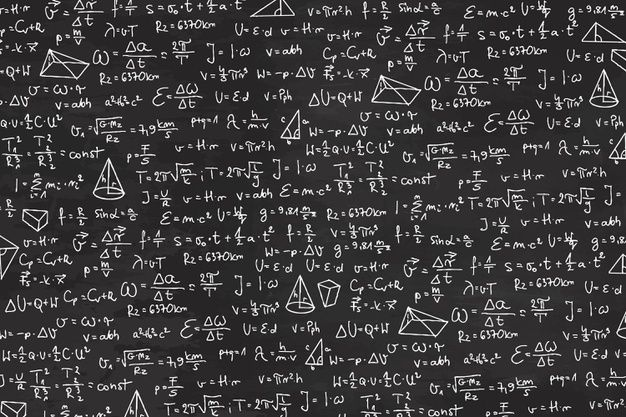
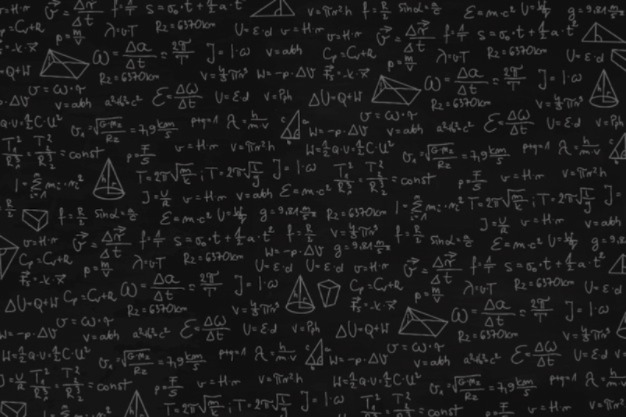
feat: alterações de estilização

diff --git a/src/calculosFisica/css/style-fisica.css b/src/calculosFisica/css/style-fisica.css
@@ -1,6 +1,6 @@
 /* src/css/style.css */
 :root {
-    --color-bg: #07073e;
+    --color-bg: #1D246B;
     --color-header: #39306c;
     --color-text: #EDEAEA;
     --color-primary: #6272A4;
@@ -84,7 +84,7 @@ body {
     flex-direction: column;
     align-items: center;
     padding: 2rem 0;
-    margin: 50px auto;
+    margin: 70px auto;
 }
 
 .main-content .title {
@@ -104,7 +104,7 @@ body {
     text-decoration: none;
     background: var(--color-text);
     color: var(--color-bg);
-    padding: 1rem;
+    padding: 1.5rem;
     border-radius: 4px;
     text-align: center;
     font-weight: bold;
@@ -143,7 +143,7 @@ body {
 
 /* BOTÕES */
 .btn {
-    padding: 0.75rem 1.5rem;
+    padding: 0.75rem 1.50rem;
     background: var(--color-primary);
     color: var(--color-text);
     border: none;
@@ -184,13 +184,13 @@ body {
 }
 
 #menu-select {
-    width: 100px;
+    width: 200px;
 }
 
 #menu-select ul {
     list-style: none;
     display: grid;
-    grid-template-columns: repeat(auto-fill, minmax(150px, 1fr));
+    grid-template-columns: repeat(auto-fill, minmax(200px, 1fr));
     gap: 0.6rem;
     text-align: center;
 }

diff --git a/src/css/style.css b/src/css/style.css
@@ -1,10 +1,10 @@
 /* src/css/style.css */
 :root {
-  --color-bg: #21222C;
-  --color-header: #282A36;
+  --color-bg: #1D246B;
+  --color-header: #39306c;
   --color-text: #EDEAEA;
   --color-primary: #6272A4;
-  --color-accent: #E561F7;
+  --color-accent: #927ffb;
   --color-button-hover: #7080C0;
 }
 
